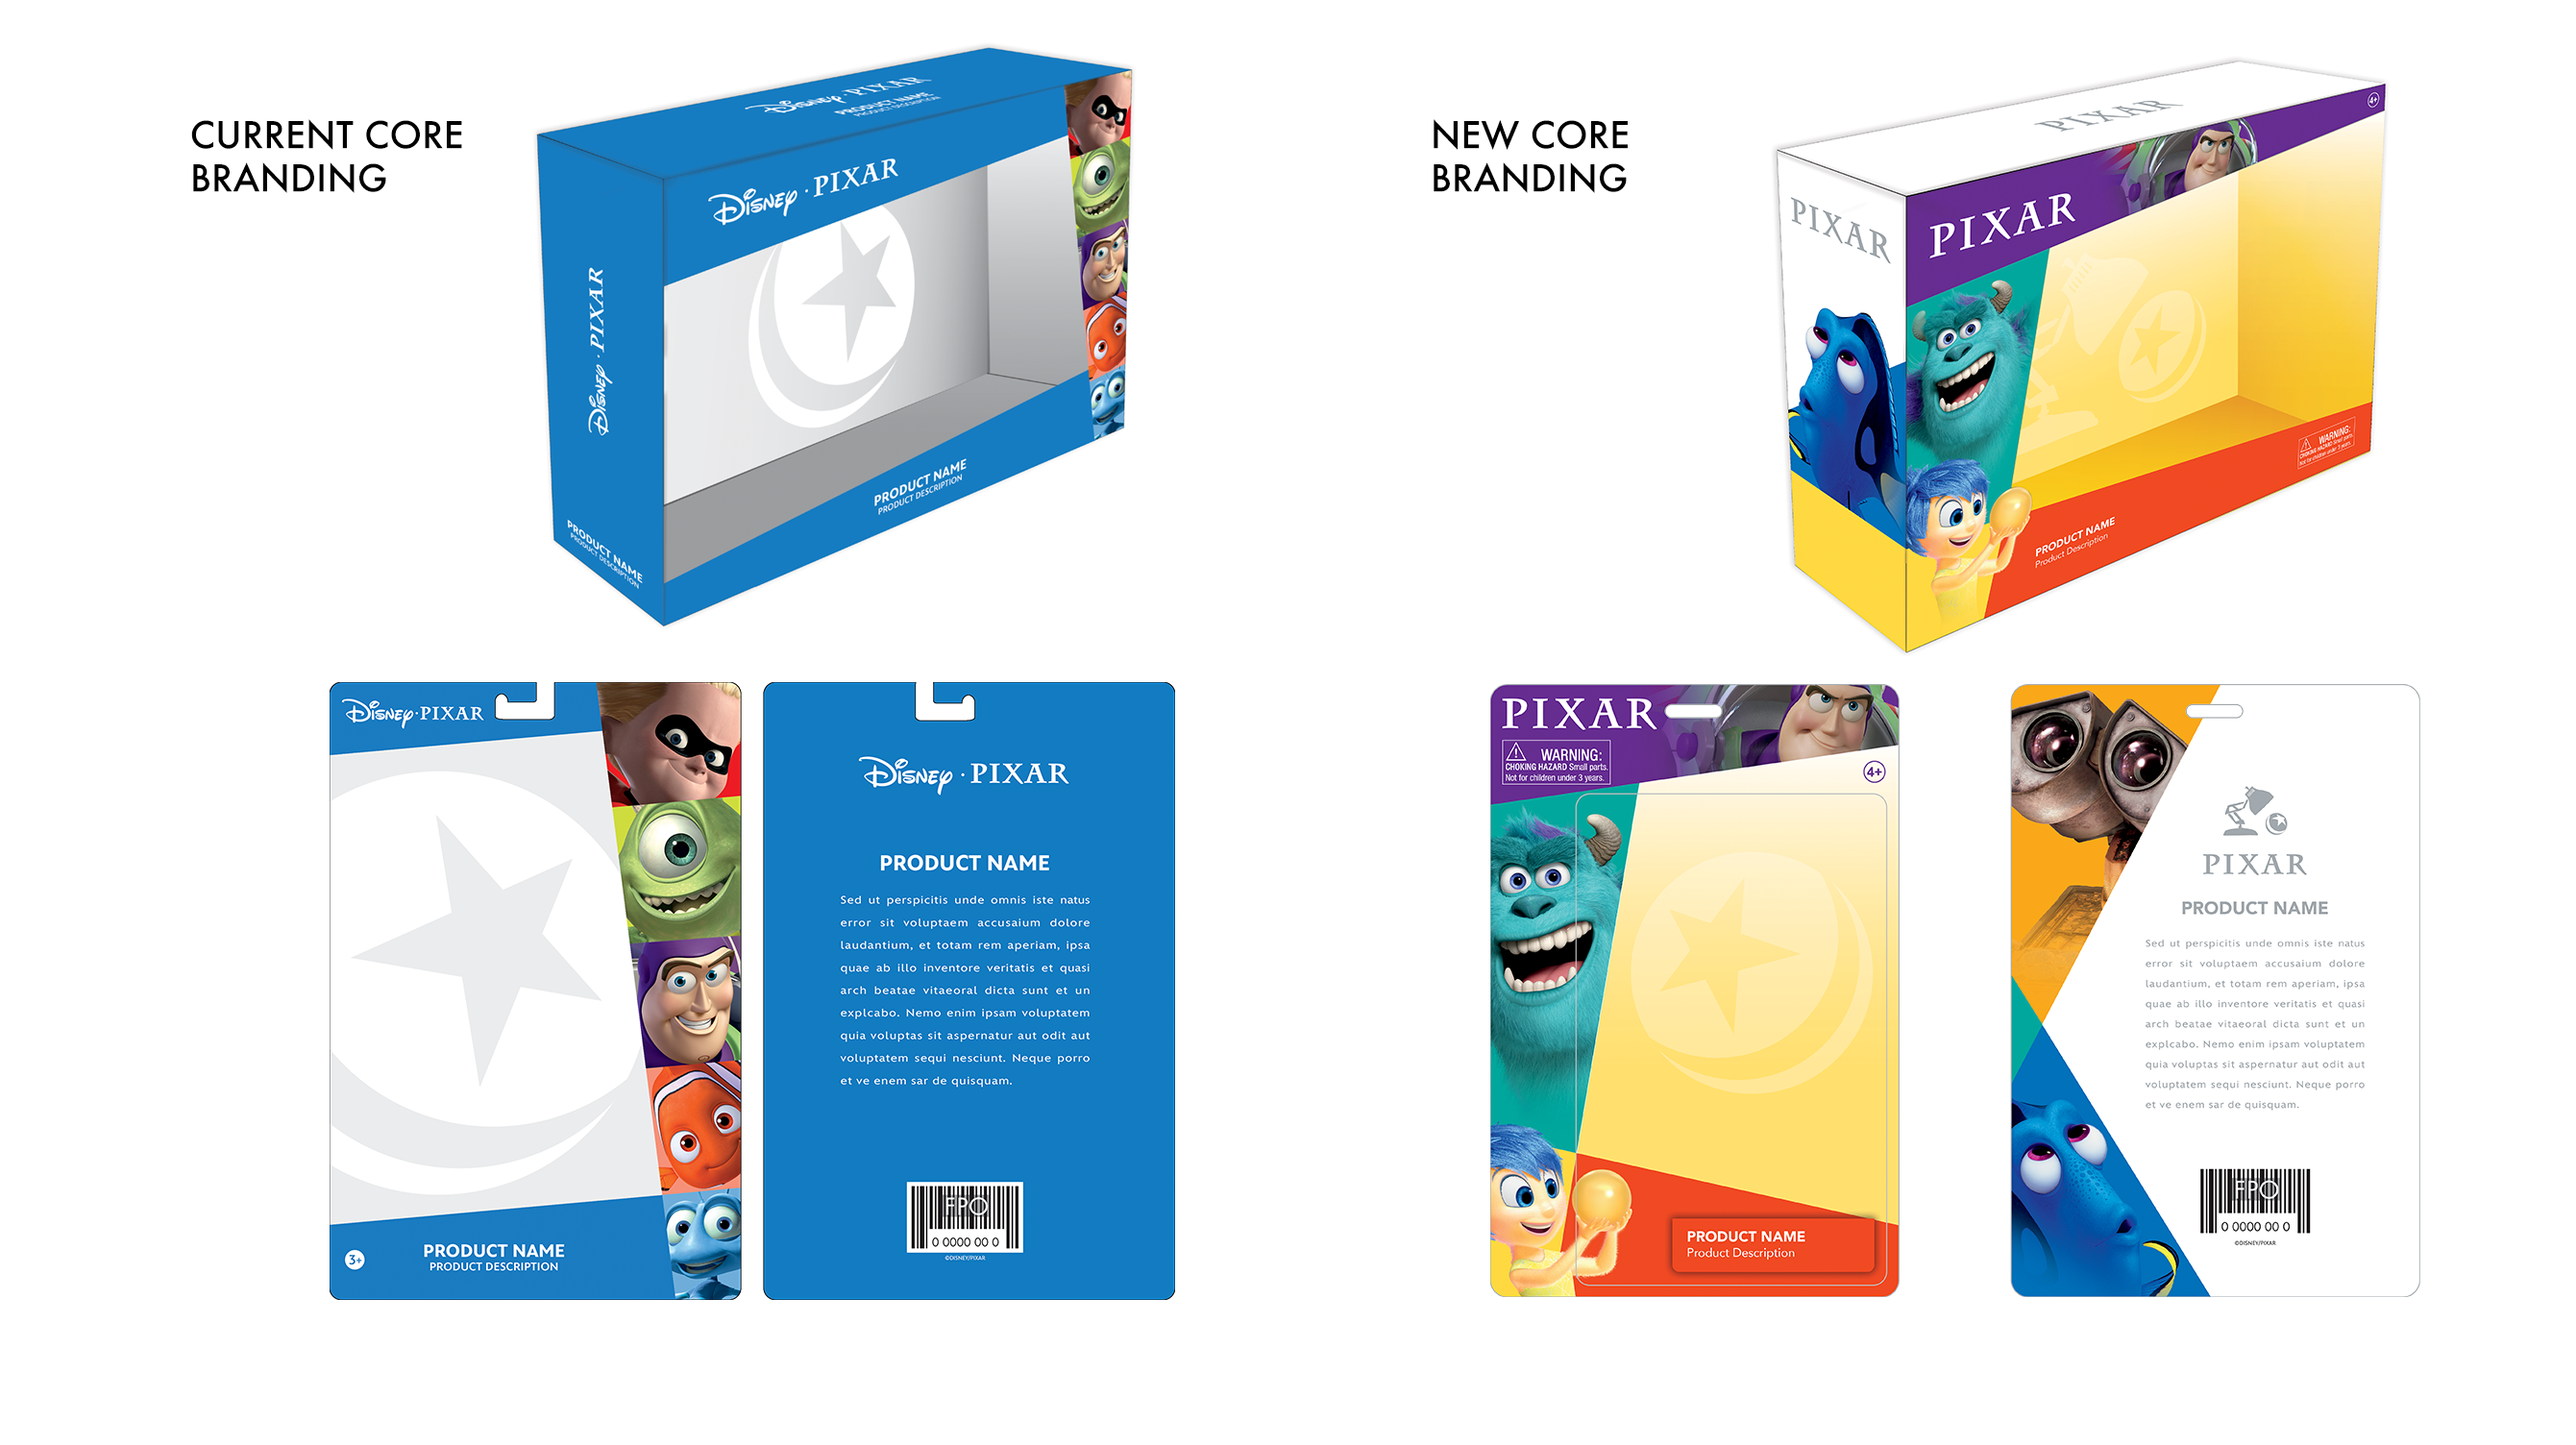
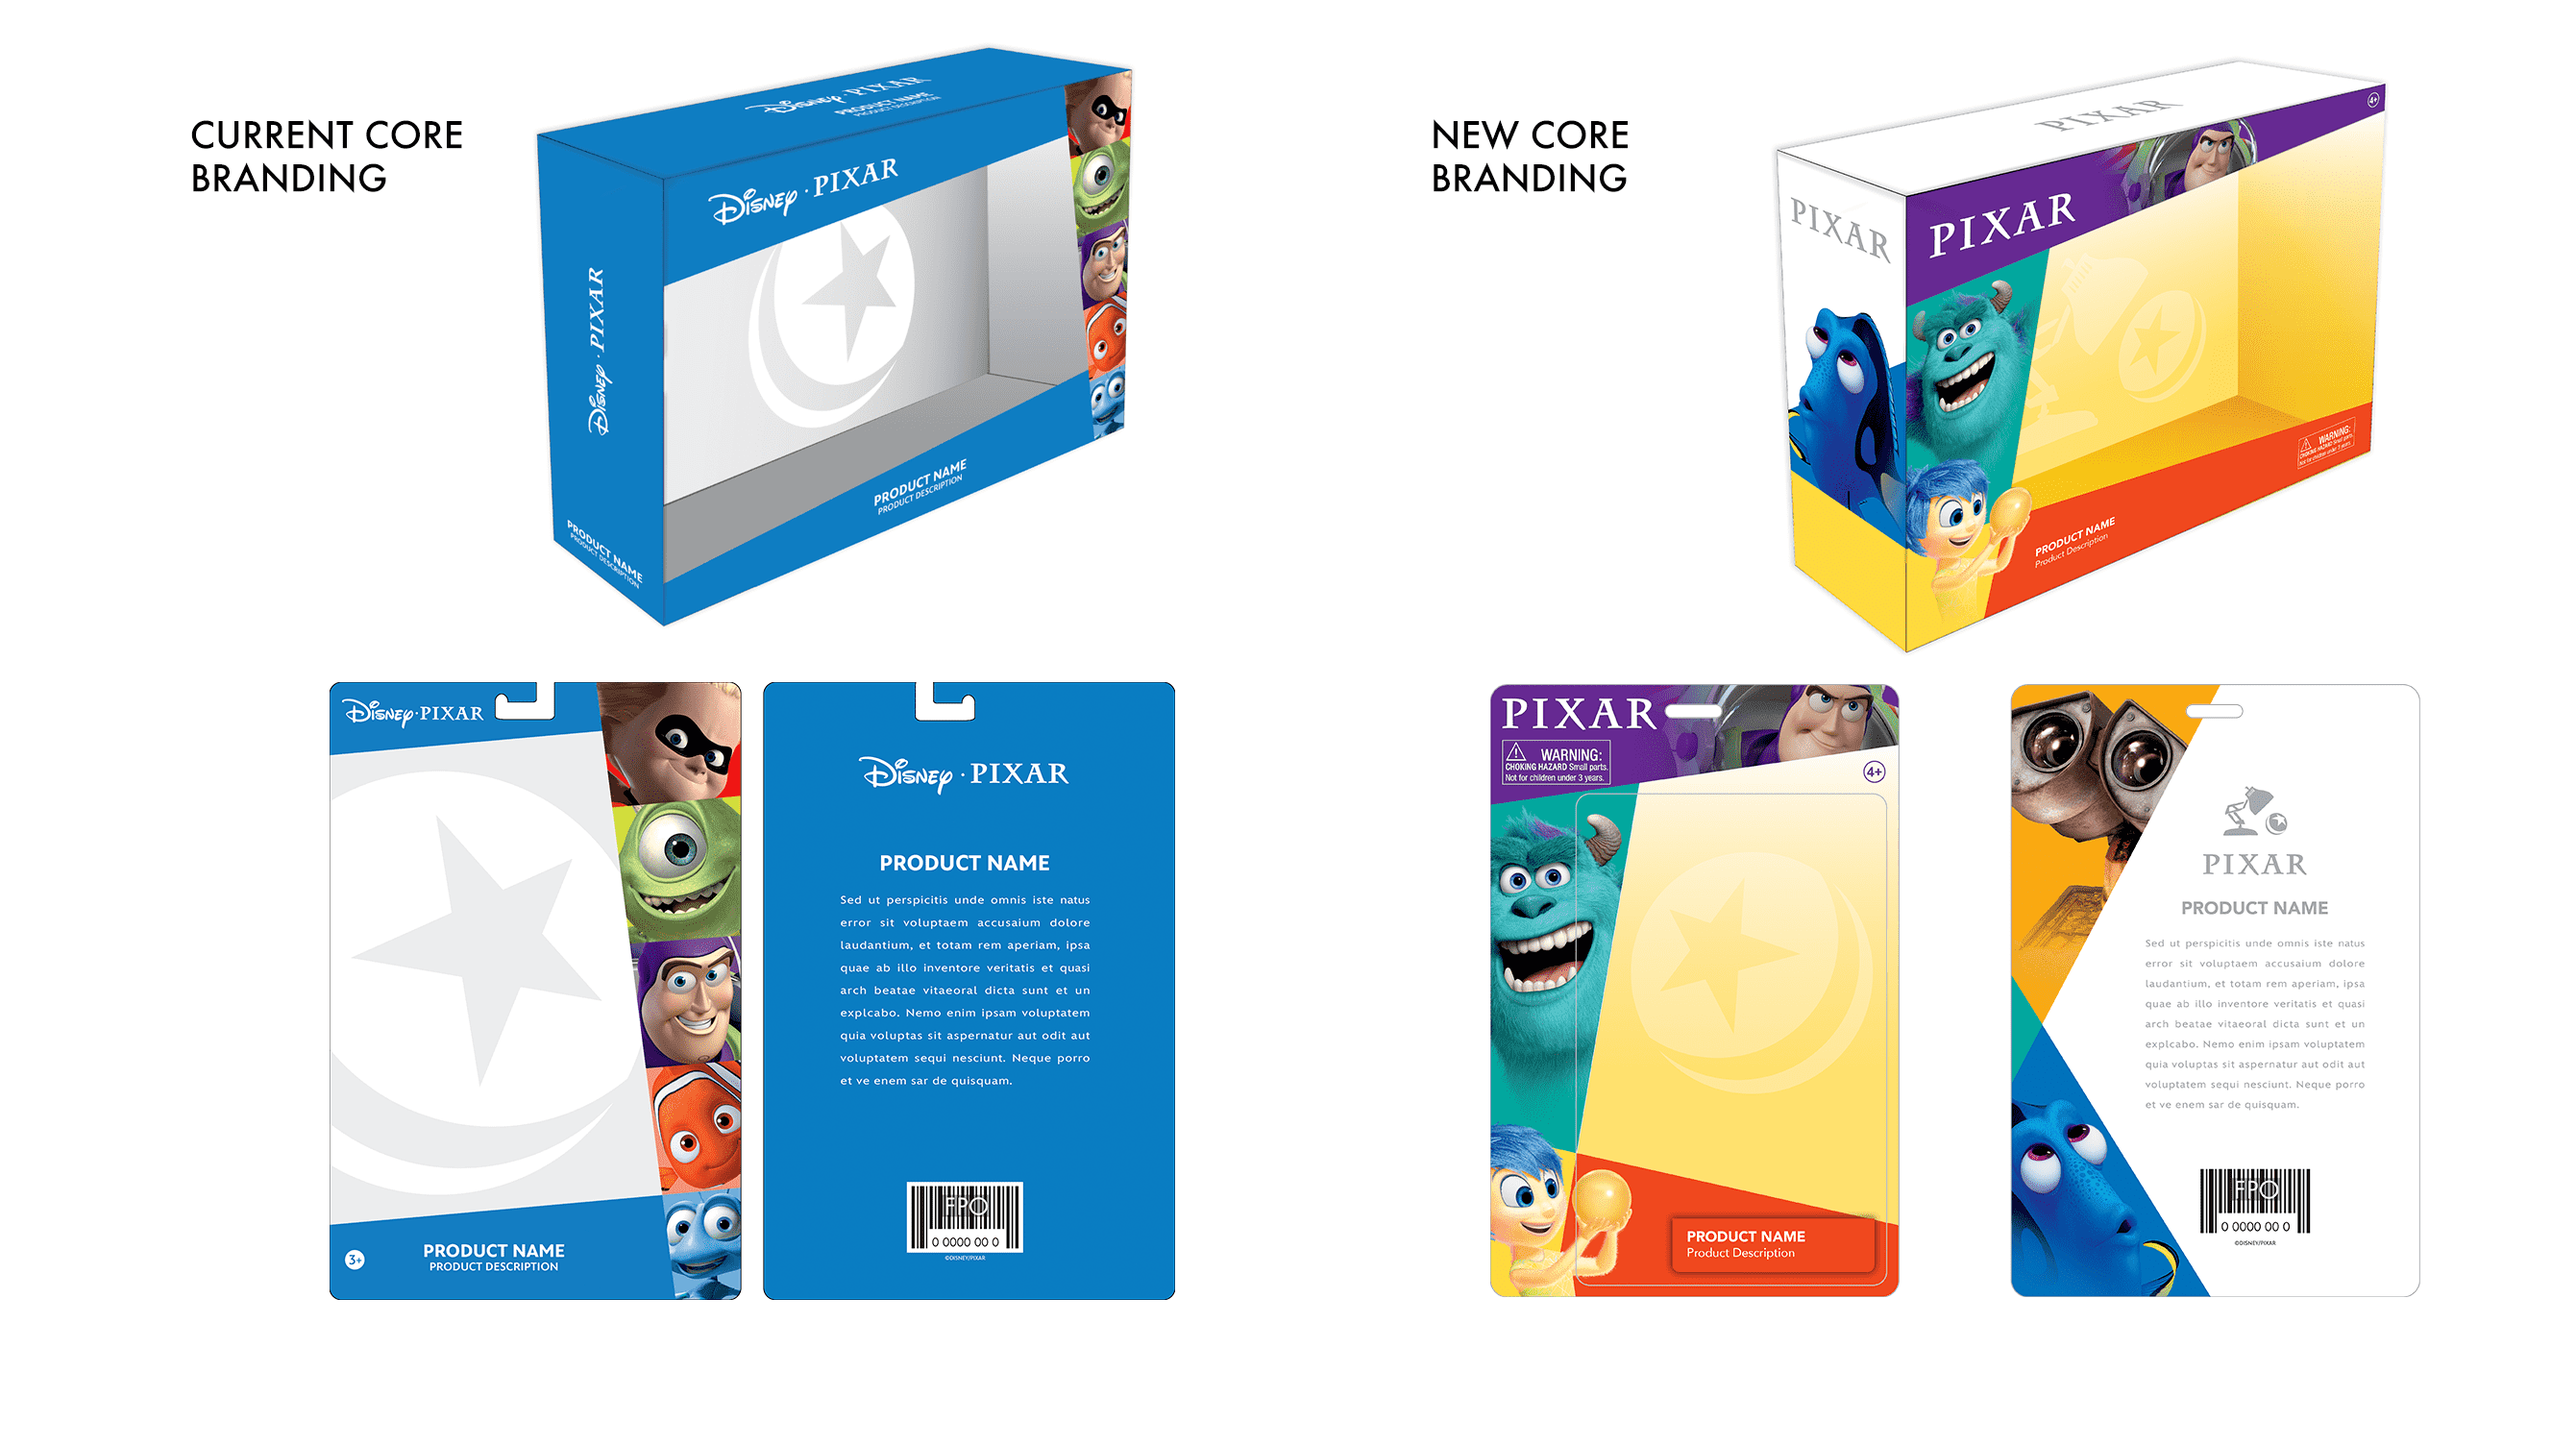
compressing images

diff --git a/disney.html b/disney.html
@@ -115,7 +115,7 @@
          <img src="assets/img/Pixar_process1.jpg">
          <img src="assets/img/Pixar_process2.jpg">
          <img src="assets/img/Pixar_process3.png">
-        <img src="assets/img/Pixar_ways.png">     <!-- other items... -->
+        <img src="assets/img/Pixar_ways.jpg">     <!-- other items... -->
 </div>
       <div class="ae-grid__item item-lg-12 item-sm--center au-xs-ta-center au-lg-ta-center"><img src="assets/img/Pixar2020Color_Page_1.jpg" alt="Color Explore"></div>
       <div class="ae-grid__item item-lg-12 item-sm--center au-xs-ta-center au-lg-ta-center"><img src="assets/img/Pixar2020Color_Page_2.jpg" alt="Color Explore"></div>
